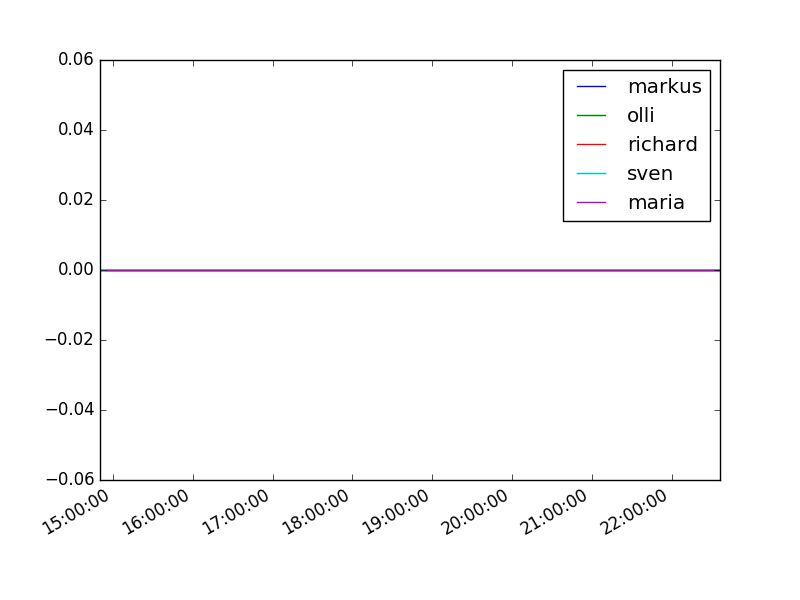
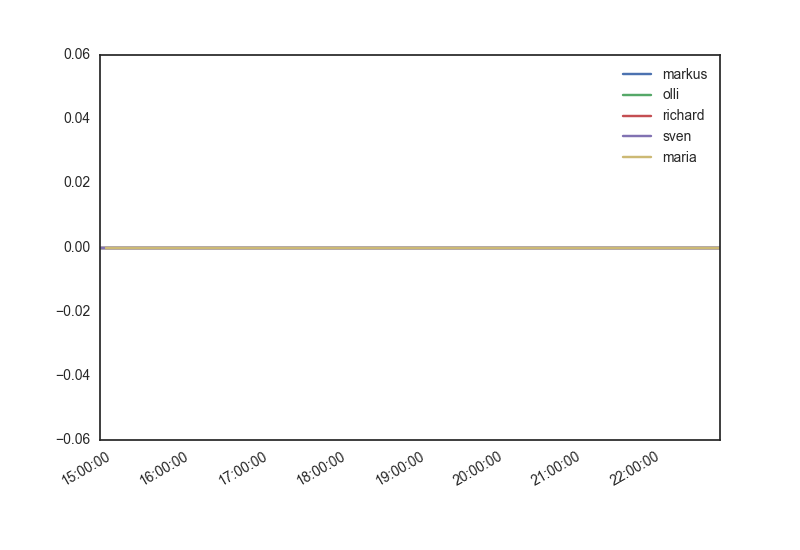
seaborn!

diff --git a/tippspiel.py b/tippspiel.py
@@ -5,6 +5,7 @@ from collections import defaultdict
 import pandas as pd
 import datetime
 import matplotlib.pyplot as plt
+import seaborn as sns
 
 DATA_FILE = "saure_gurke.pkl"
 
@@ -99,7 +100,7 @@ def add_rounds(standings):
 
 def update_data():
 
-
+    sns.set_style('white')
     series = pd.Series(add_rounds(get_all_rounds()))
     series.name = datetime.datetime.now()
 
